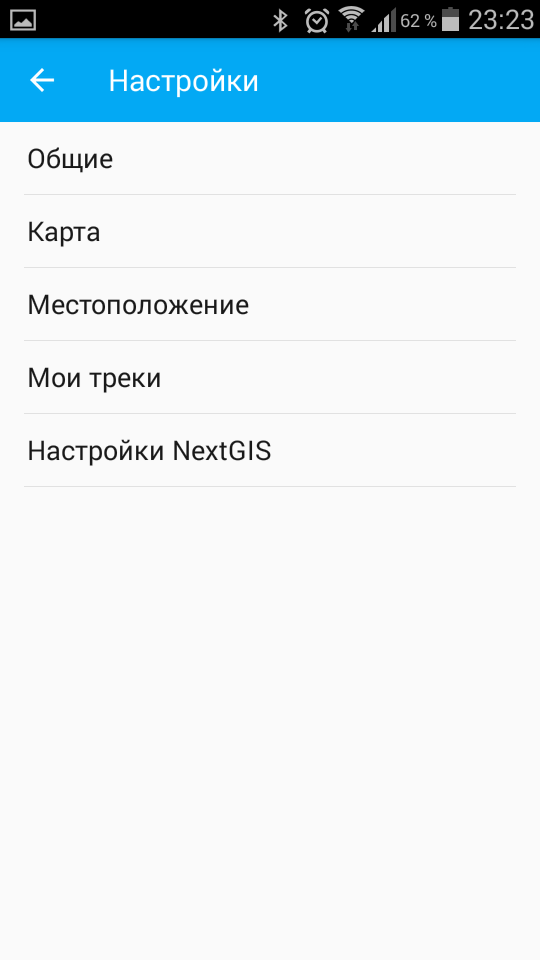
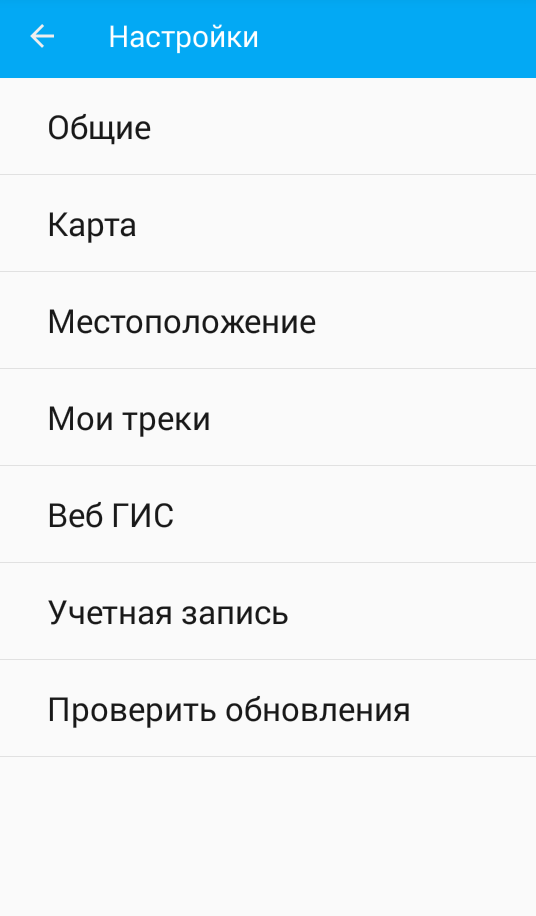
ng mobile

diff --git a/source/main.rst b/source/main.rst
@@ -177,11 +177,13 @@ ngmobile_layertree
    
 На основной панели имеются следующие блоки настроек:
 
-* общие;
-* карта;
-* местоположение;
-* треки;
-* NextGIS Web.
+* Общие;
+* Карта;
+* Местоположение;
+* Мои треки;
+* Веб ГИС;
+* Учетная запись;
+* Проверить обновления.
 
 Блок настроек "Карта" содержит основные настройки карты (см. :numref:`ngmobile_settings_map_pic`).
 
